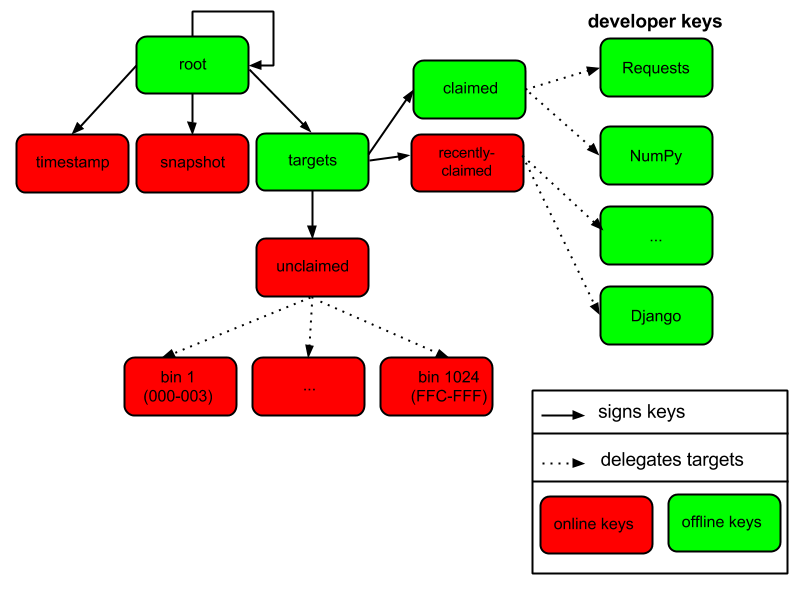
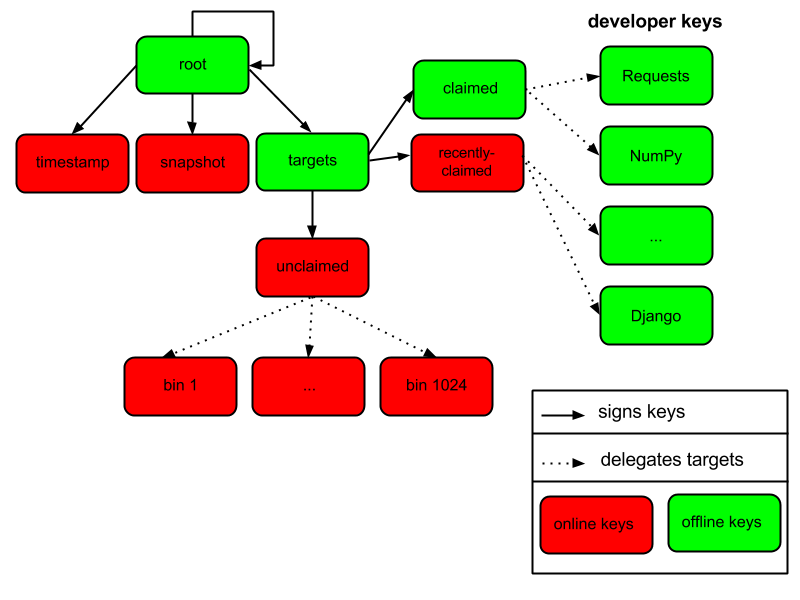
Simplify the bin names used in the figures

diff --git a/README.rst b/README.rst
@@ -752,8 +752,8 @@ package at a specific version, can be handled by TUF with techniques like
 implicit key revocation and metadata mismatch detection [81].
 
 
-Appendix A: End-to-End Signing Extension 
-========================================
+Appendix A: Extension for End-to-End Signing and Maximum Security Model
+=======================================================================
 
 .. image:: figure2.png
 
